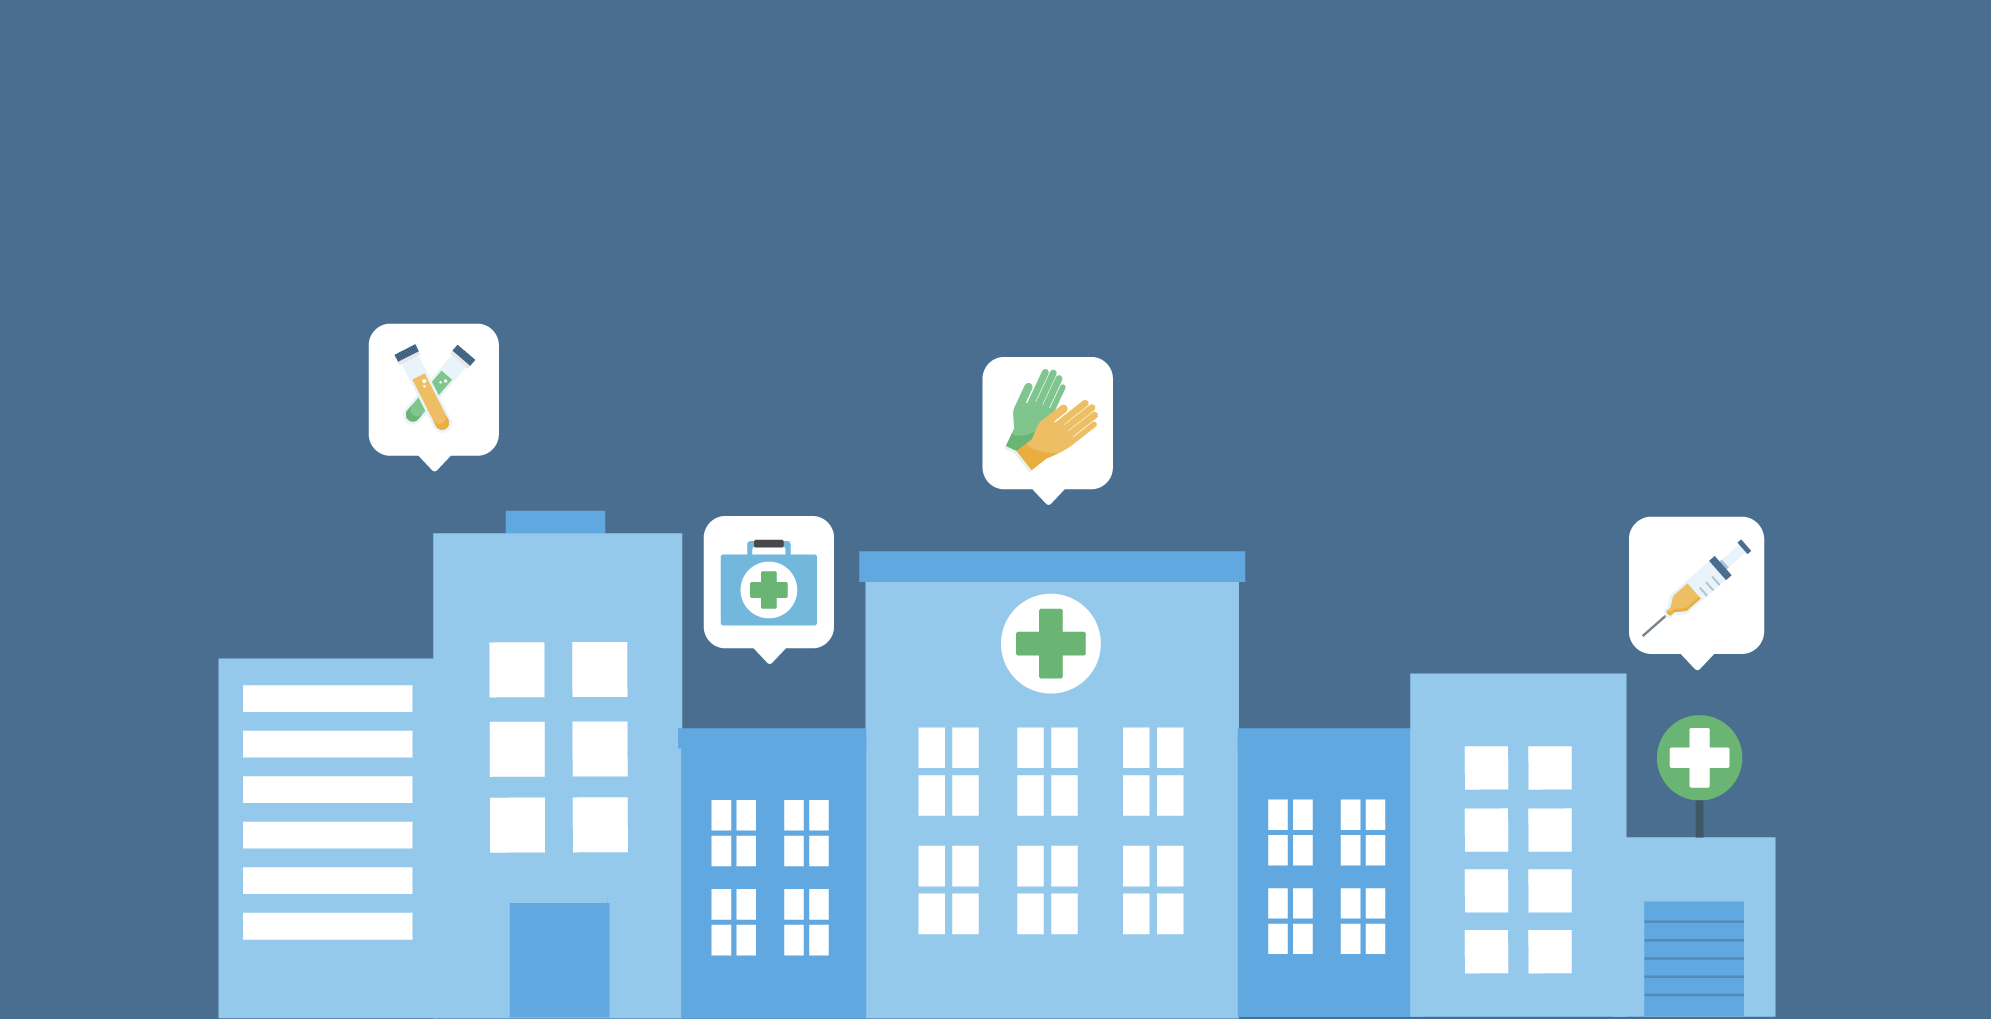
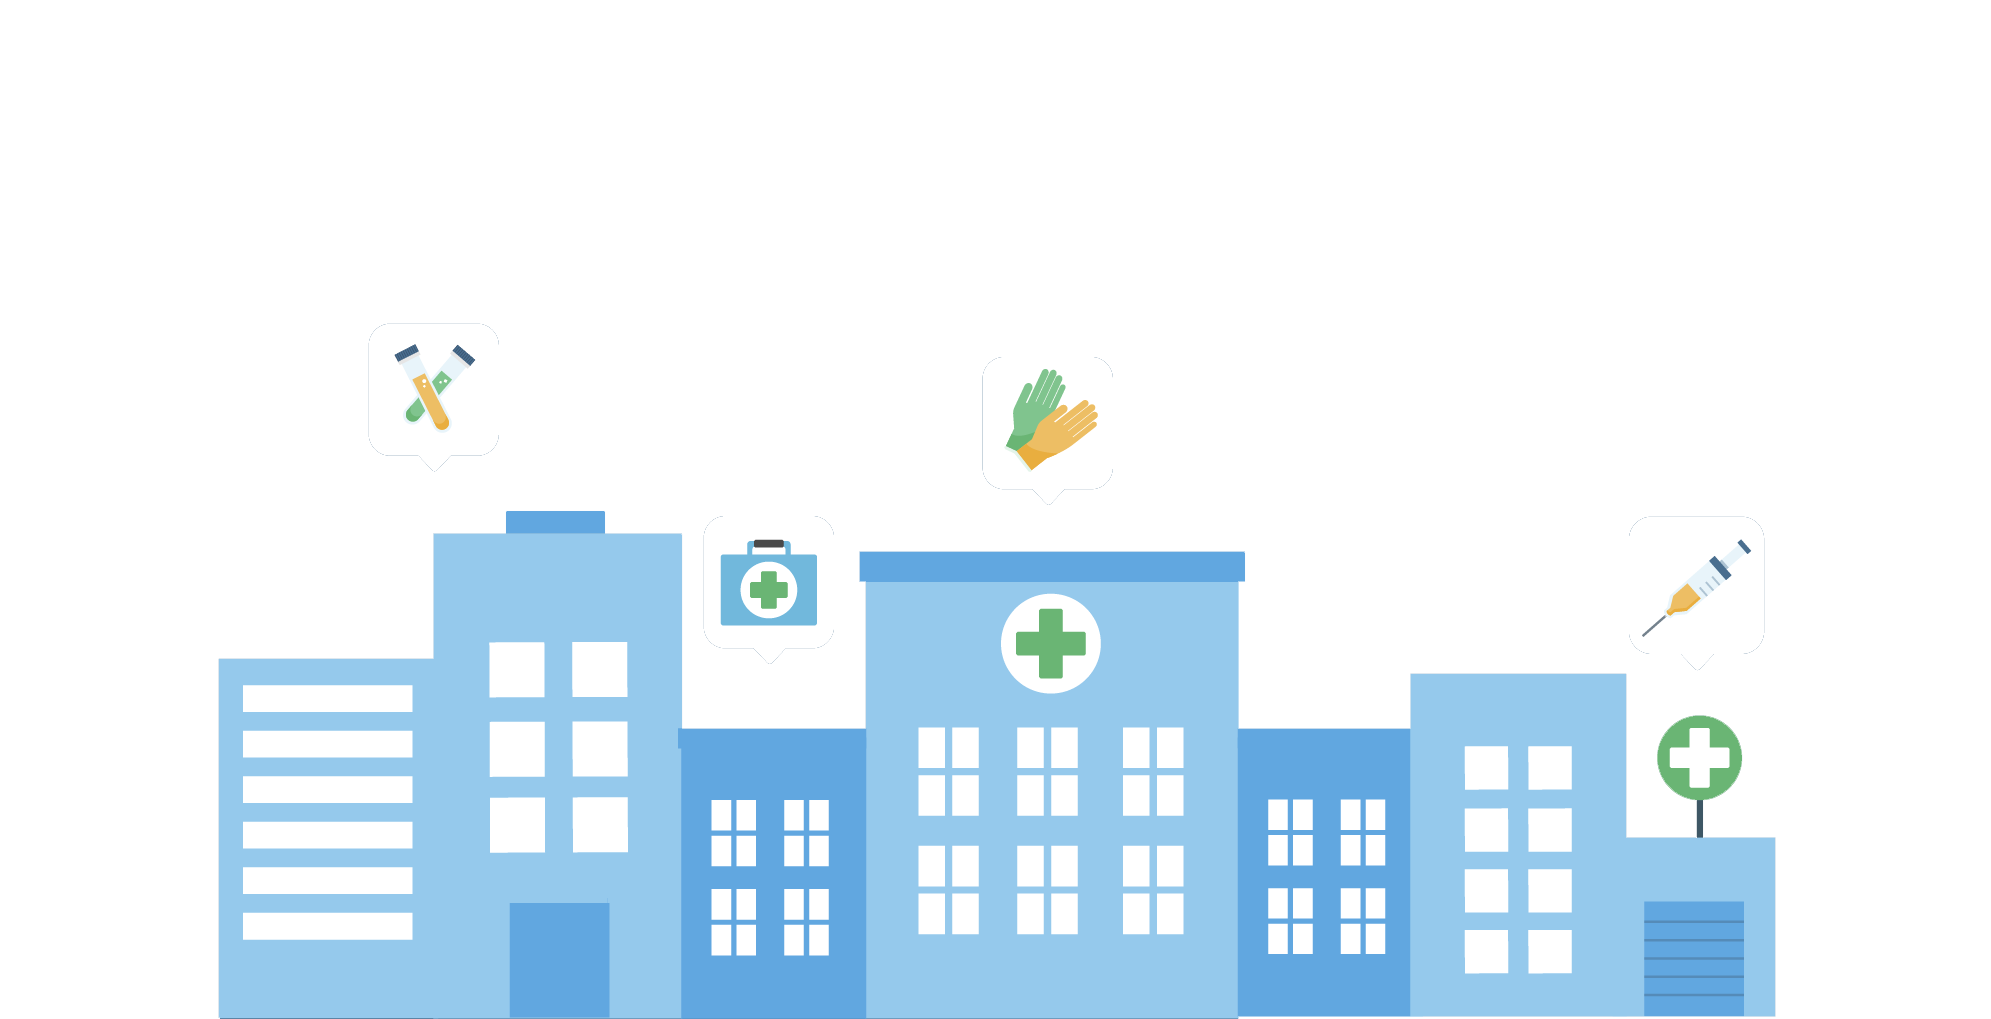
WIP Update styles

diff --git a/app/styles/app.scss b/app/styles/app.scss
@@ -574,7 +574,7 @@ h6 {
 // HOMEPAGE
 
 #index-banner {
-  background-color: #496e8f;
+  background-color: #2d6e92;
 
   img {
     max-width: 800px;
@@ -583,8 +583,6 @@ h6 {
 
 @include media-breakpoint-up(lg) {
   #index-banner {
-    background-color: #496e8f;
-
     br {
       display: none;
     }
@@ -744,4 +742,12 @@ h6 {
 
 .pointer {
   cursor: pointer;
+}
+
+.h-1em {
+  height: 1em;
+}
+
+.h-15em {
+  height: 1.5em;
 }
